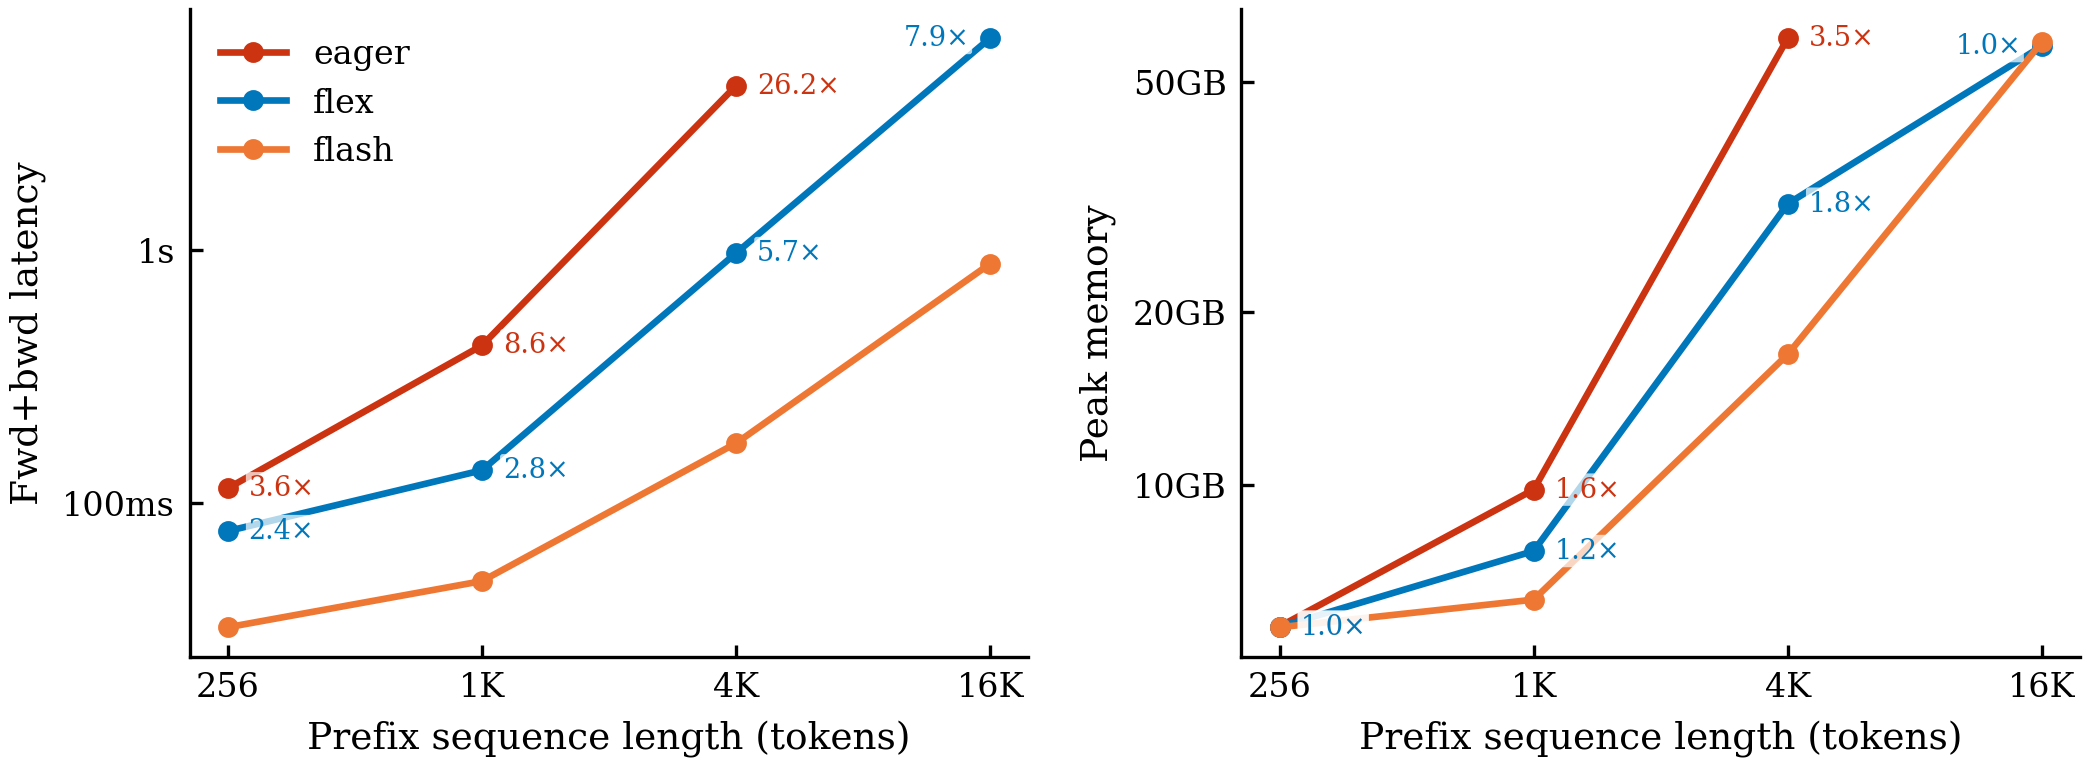
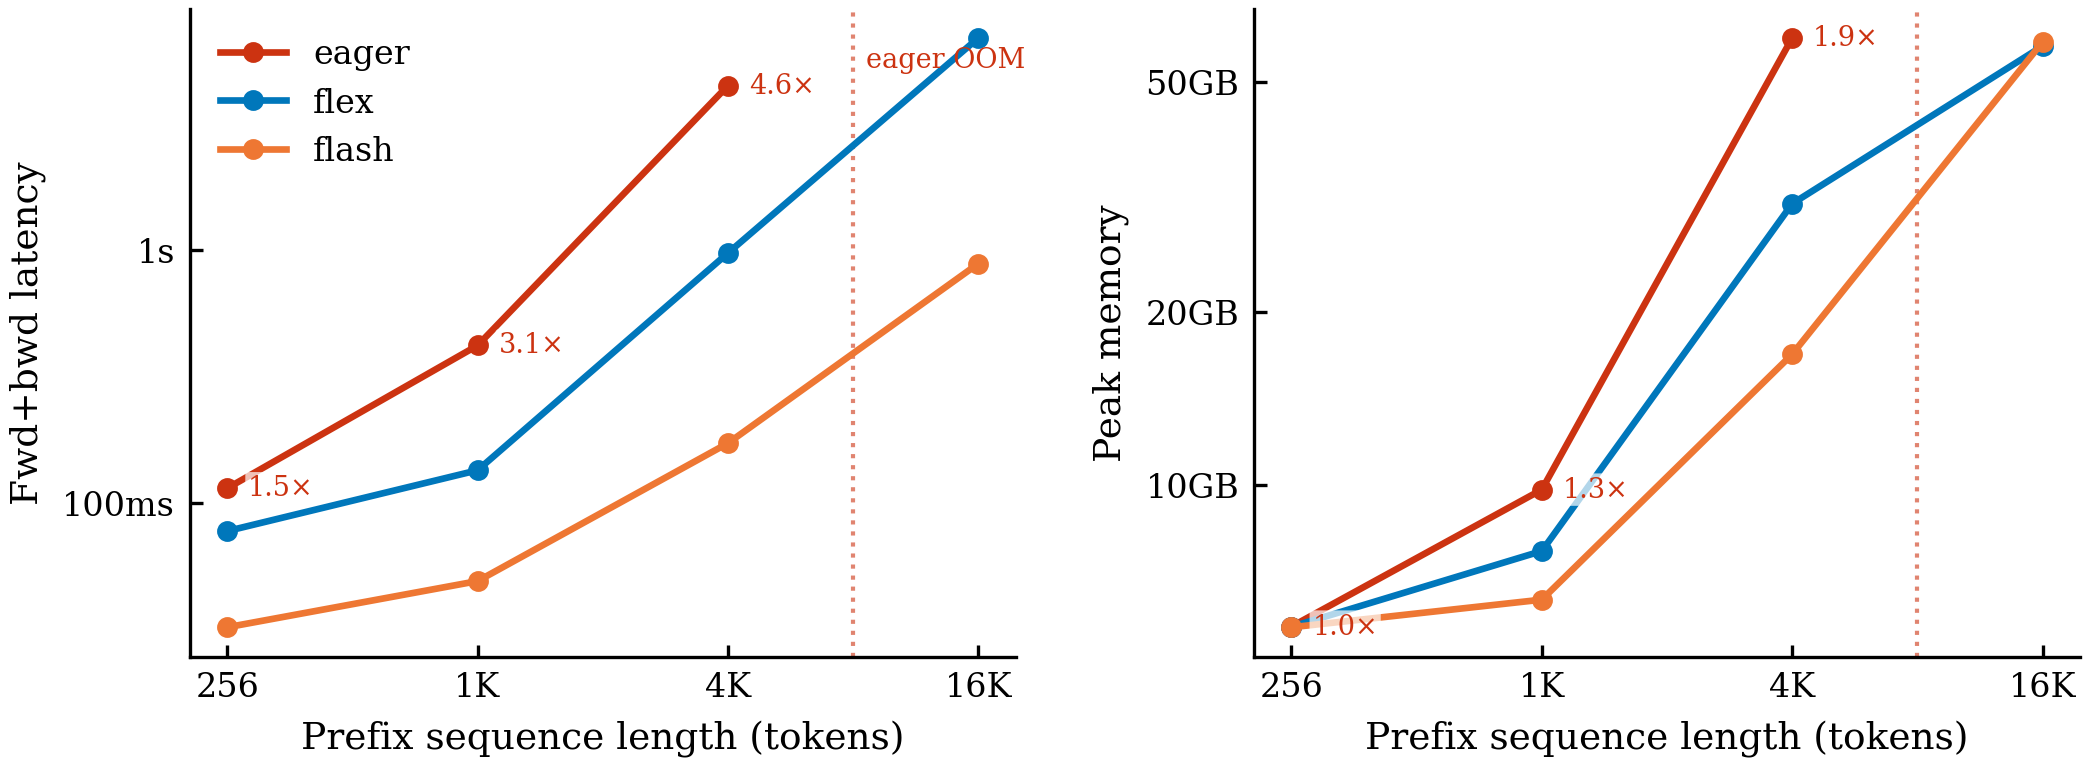
flex_attn: annotate the scaling figures against the eager path

diff --git a/src/models/flex_attn/plot_results.py b/src/models/flex_attn/plot_results.py
@@ -188,8 +188,21 @@ def _smart_yticks(ax, fmt=None) -> None:
 
 # ── figure builder ────────────────────────────────────────────────────────────
 
-def _annotate_ratios(ax_t, ax_m, drawn: list) -> None:
-    """Annotate each non-flash point with its ratio vs flash.
+def _annotate_ratios(ax_t, ax_m, drawn: list, baseline: str = "flash") -> None:
+    """Annotate each series against ``baseline``.
+
+    ``baseline="flash"`` labels every other series with its cost *relative to*
+    the bias-free floor (>1 = more expensive than flash).
+
+    ``baseline="eager"`` labels flex with its *speedup over* the dense path
+    (>1 = flex faster) and leaves flash unlabelled. This is the right framing
+    whenever the claim is about replacing eager: flash cannot express the graph
+    bias at all, so it is a lower bound on what any kernel could cost, not a
+    target the graph-attention layer is failing to hit. Flash stays plotted —
+    the gap is still readable off the log axis — it just stops being the
+    yardstick the annotations assert. Past the point where the baseline runs
+    out of memory there is nothing to divide by, so that boundary is marked
+    instead.
 
     Annotations are placed to the right of the dot (same y as the data point),
     which naturally separates eager and flex since they have different y-values.
@@ -197,53 +210,104 @@ def _annotate_ratios(ax_t, ax_m, drawn: list) -> None:
     running off the right edge.  A faint white background keeps text readable
     when it crosses a line.
     """
-    flash_ms = flash_gb = None
+    # Speedup-over-the-dense-path framing, vs cost-relative-to-the-floor.
+    invert = baseline == "eager"
+    skip = {baseline, "flash"} if invert else {baseline}
+
+    base_ms = base_gb = None
     for label, x, ms, gb in drawn:
-        if label == "flash":
-            flash_ms = dict(zip(x.tolist(), ms.tolist()))
-            flash_gb = dict(zip(x.tolist(), gb.tolist()))
+        if label == baseline:
+            base_ms = dict(zip(x.tolist(), ms.tolist()))
+            base_gb = dict(zip(x.tolist(), gb.tolist()))
             break
-    if flash_ms is None:
+    if base_ms is None:
         return
 
     _bbox = dict(boxstyle="round,pad=0.1", fc="white", ec="none", alpha=0.7)
 
     global_last_x = max(xi for _, x, _, _ in drawn for xi in x.tolist())
 
-    for label, x, ms, gb in drawn:
-        if label == "flash":
-            continue
-        color = _STYLE[label]["color"]
-        x_list, ms_list, gb_list = x.tolist(), ms.tolist(), gb.tolist()
-        series_last_xi = x_list[-1]
+    if invert:
+        # Labels sit on the BASELINE curve, not on ours. Two reasons: the set of
+        # annotations then matches that curve's extent exactly (past its last
+        # point there is no ratio left to report, which the OOM rule below says
+        # instead), and it keeps text off the flex and flash curves, which
+        # nearly coincide on the memory panel. The value is the baseline's cost
+        # relative to ours, so it reads as an attribute of the curve it labels.
+        target = next((d for d in drawn if d[0] not in skip), None)
+        if target is not None:
+            _, tx, tms, tgb = target
+            t_ms = dict(zip(tx.tolist(), tms.tolist()))
+            t_gb = dict(zip(tx.tolist(), tgb.tolist()))
+            color = _STYLE[baseline]["color"]
+            for xi in sorted(base_ms):
+                if t_ms.get(xi, 0) > 0:
+                    ax_t.annotate(
+                        f"{base_ms[xi] / t_ms[xi]:.1f}×",
+                        xy=(xi, base_ms[xi]), xytext=(5, 0),
+                        textcoords="offset points", fontsize=6.5, color=color,
+                        ha="left", va="center", bbox=_bbox, zorder=5,
+                    )
+                if t_gb.get(xi, 0) > 0:
+                    ax_m.annotate(
+                        f"{base_gb[xi] / t_gb[xi]:.1f}×",
+                        xy=(xi, base_gb[xi]), xytext=(5, 0),
+                        textcoords="offset points", fontsize=6.5, color=color,
+                        ha="left", va="center", bbox=_bbox, zorder=5,
+                    )
+    else:
+        for label, x, ms, gb in drawn:
+            if label in skip:
+                continue
+            color = _STYLE[label]["color"]
+            x_list, ms_list, gb_list = x.tolist(), ms.tolist(), gb.tolist()
+            series_last_xi = x_list[-1]
 
-        for xi, msi, gbi in zip(x_list, ms_list, gb_list):
-            # Flip to left only when the series reaches the rightmost x of the plot
-            flip = (xi == series_last_xi) and (xi == global_last_x)
-            x_off = -5 if flip else 5
-            ha    = "right" if flip else "left"
+            for xi, msi, gbi in zip(x_list, ms_list, gb_list):
+                # Flip to left only when the series reaches the rightmost x
+                flip = (xi == series_last_xi) and (xi == global_last_x)
+                x_off = -5 if flip else 5
+                ha    = "right" if flip else "left"
 
-            if xi in flash_ms and flash_ms[xi] > 0:
-                ax_t.annotate(
-                    f"{msi / flash_ms[xi]:.1f}×",
-                    xy=(xi, msi), xytext=(x_off, 0), textcoords="offset points",
-                    fontsize=6.5, color=color, ha=ha, va="center",
-                    bbox=_bbox, zorder=5,
-                )
-            if xi in flash_gb and flash_gb[xi] > 0:
-                ax_m.annotate(
-                    f"{gbi / flash_gb[xi]:.1f}×",
-                    xy=(xi, gbi), xytext=(x_off, 0), textcoords="offset points",
-                    fontsize=6.5, color=color, ha=ha, va="center",
-                    bbox=_bbox, zorder=5,
-                )
+                if base_ms.get(xi, 0) > 0:
+                    ax_t.annotate(
+                        f"{msi / base_ms[xi]:.1f}×",
+                        xy=(xi, msi), xytext=(x_off, 0),
+                        textcoords="offset points", fontsize=6.5, color=color,
+                        ha=ha, va="center", bbox=_bbox, zorder=5,
+                    )
+                if base_gb.get(xi, 0) > 0:
+                    ax_m.annotate(
+                        f"{gbi / base_gb[xi]:.1f}×",
+                        xy=(xi, gbi), xytext=(x_off, 0),
+                        textcoords="offset points", fontsize=6.5, color=color,
+                        ha=ha, va="center", bbox=_bbox, zorder=5,
+                    )
+        return
+
+    # Mark where the baseline stops: beyond it there is no ratio to report,
+    # which is itself the capability claim.
+    all_x = sorted({xi for _, x, _, _ in drawn for xi in x.tolist()})
+    base_last = max(base_ms)
+    nxt = next((v for v in all_x if v > base_last), None)
+    if nxt is None:
+        return
+    xline = (base_last * nxt) ** 0.5          # geometric midpoint on a log axis
+    for ax in (ax_t, ax_m):
+        ax.axvline(xline, color=_STYLE[baseline]["color"], ls=":", lw=1.0,
+                   alpha=0.6, zorder=1)
+    ax_t.annotate(
+        f"{baseline} OOM", xy=(xline, 1.0), xycoords=("data", "axes fraction"),
+        xytext=(3, -9), textcoords="offset points", fontsize=6.5,
+        color=_STYLE[baseline]["color"], ha="left", va="top",
+    )
 
 
 def _make_figure(
     rows: list[dict],
     series_spec: list[tuple[str, str, int]],  # (display_label, method, k_hop)
     out_path: str,
-    annotate_vs_flash: bool = False,
+    annotate_vs: str | None = None,   # "flash" | "eager"; see _annotate_ratios
 ) -> None:
     fig, (ax_t, ax_m) = plt.subplots(1, 2, figsize=(7.0, 2.6))
 
@@ -272,8 +336,8 @@ def _make_figure(
         ax_t.plot(x, ms, label=label, **kw)
         ax_m.plot(x, gb, **kw)
 
-    if annotate_vs_flash:
-        _annotate_ratios(ax_t, ax_m, drawn)
+    if annotate_vs:
+        _annotate_ratios(ax_t, ax_m, drawn, baseline=annotate_vs)
 
     ax_t.set_xlabel("Prefix sequence length (tokens)")
     ax_t.set_ylabel("Fwd+bwd latency")
@@ -322,9 +386,11 @@ def main(argv=None):
         rows = _load(jsonl)
         _make_figure(rows, _FOUR,
                      os.path.join(args.out_dir, f"fig_{kind}_all_methods"))
+        # Annotated against eager: this is the paper figure, and eager is the
+        # only functionally equivalent baseline (see _annotate_ratios).
         _make_figure(rows, _THREE,
                      os.path.join(args.out_dir, f"fig_{kind}_flex_k0"),
-                     annotate_vs_flash=True)
+                     annotate_vs="eager")
 
 
 if __name__ == "__main__":
